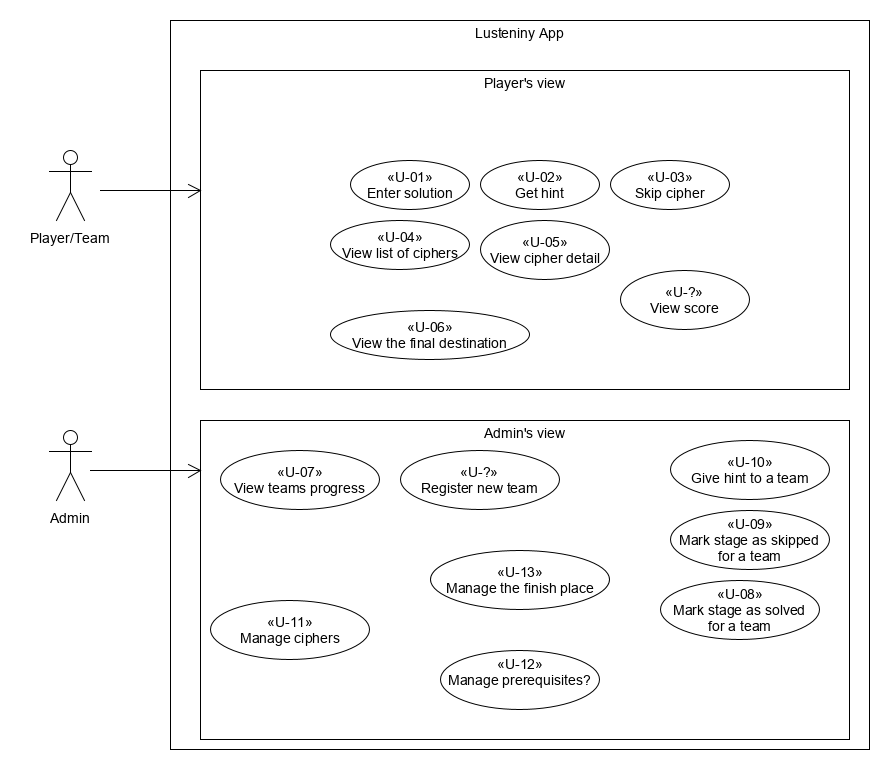
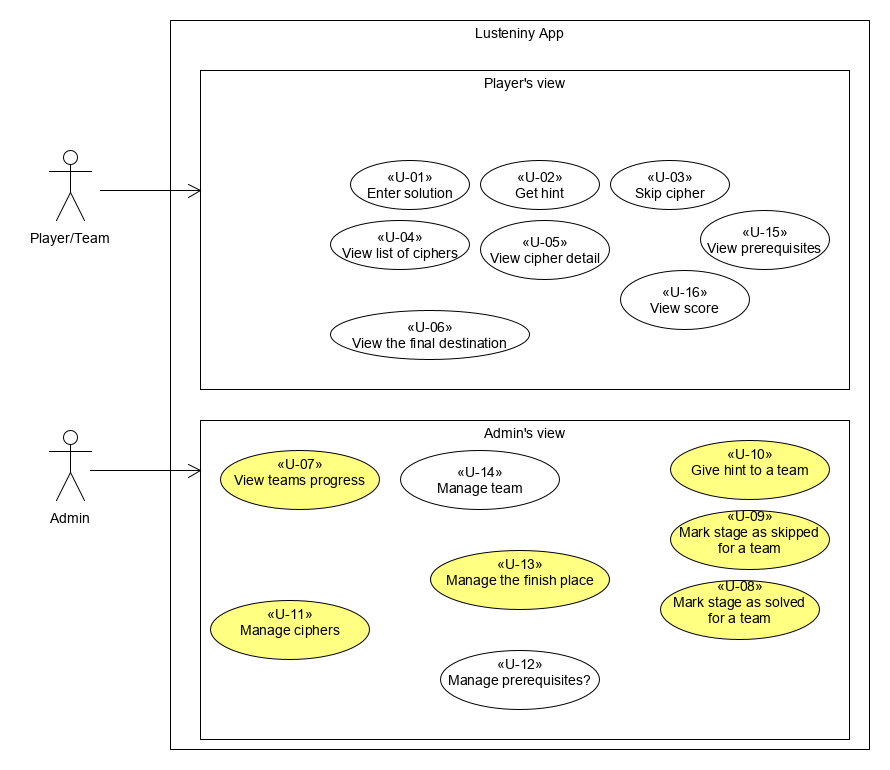
Updated admin use cases

diff --git a/U-11_Manage_ciphers.md b/U-11_Manage_ciphers.md
@@ -7,19 +7,20 @@
 
 ## Main Scenario
 
-1. **Admin:** wants to create or edit a cipher
-2. **System:** asks admin for followint cipher information:
+1. **Admin:** wants to create or edit or delete a cipher
+2. **System:** asks admin for following cipher information:
    - Cipher title
-   - Cipher text/image
-   - Solution
-   - Hint
-   - Sorting order
-   - Place position
+   - Codeword
+   - Hint(s)
+   - Stage number
+   - Place position (lat/lng)
+   - Place description
+   - Bonus information (optional)
 
 3. **Admin:** fills-in the data and submits
 4. **System:** saves the cipher information into the system
 
 ## Extension
-3. Submit:
+2. If action is delete, cipher is removed from the system
+4. Submit:
    1. If required fields are missing system shows an error
-

diff --git a/U-14_Manage_teams.md b/U-14_Manage_teams.md
@@ -1,4 +1,4 @@
-# U-13: Manage the finish place
+# U-14: Manage teams
 **Actor:** Admin
 
 **Preconditions:** -
@@ -7,12 +7,11 @@
 
 ## Main Scenario
 
-1. **Admin:** wants to edit the finish place
+1. **Admin:** wants to add edit or remove team
 2. **System:** lets admin to input following data:
-   - Title
-   - Description
-   - GPS coordinates
-   - Time when place should be available to players
+   - Team name
+   - Number of members (optional)
+   - PIN (can be generated by the system)
 
 3. **Admin**: fills-in the data and submits
 4. **System**: Saves the information into the system
@@ -20,4 +19,3 @@
 ## Extension
 3. Submit:
    1. If some of the fields are missing, system shows an error
-   2. If time is in the past, system shows an error

diff --git a/U-09_Mark_stage_as_skipped_for_a_team.md b/U-09_Mark_stage_as_skipped_for_a_team.md
@@ -1,0 +1,19 @@
+# U-09: Mark stage as skipped for a team
+**Actor:** Admin
+
+**Preconditions:**
+- Previous ciphers must be finished or skipped (except first one)
+
+**Postconditions:**
+- Team score is updated
+- Next stage is unlocked and team can view it
+
+## Main Scenario
+
+1. Admin: wants to mark cipher as skipped
+2. System: asks for a team pin
+3. Admin: enters the pin and confirms the action
+4. System: marks the cipher as skipped
+
+## Extension
+N/A

diff --git a/U-08_Mark_stage_as_solved_for_a_team.md b/U-08_Mark_stage_as_solved_for_a_team.md
@@ -1,0 +1,19 @@
+# U-08: Mark stage as solved for a team
+**Actor:** Admin
+
+**Preconditions:**
+- Previous ciphers must be finished or skipped (except first one)
+
+**Postconditions:**
+- Team score is updated
+- Next stage is unlocked and team can view it
+
+## Main Scenario
+
+1. Admin: wants to mark cipher as solved
+2. System: asks for a team pin
+3. Admin: enters the pin and confirms the action
+4. System: marks the cipher as solved
+
+## Extension
+N/A

diff --git a/U-10_Give_hint_to_a_team.md b/U-10_Give_hint_to_a_team.md
@@ -1,0 +1,18 @@
+# U-10: Give hint to a team
+**Actor:** Admin
+
+**Preconditions:**
+- Previous ciphers must be finished or skipped (except first one)
+
+**Postconditions:**
+- Team score is updated
+
+## Main Scenario
+
+1. Admin: wants to give hint to a team
+2. System: asks for a team pin
+3. Admin: enters the pin and confirms the action
+4. System: unlocks next hint to a team
+
+## Extension
+N/A

diff --git a/U-07_View_teams_progress.md b/U-07_View_teams_progress.md
@@ -12,8 +12,7 @@
 2. **System:** renders following information in a table:
    - Team name
    - Team score
-   - Number of solved ciphers
-   - Total number of ciphers
+   - Status of each cypher for each team(skipped, solved, pending) 
     
 ## Extension
 N/A

diff --git a/U-12_Mange_prerequisites.md b/U-12_Mange_prerequisites.md
@@ -1,0 +1,13 @@
+# U-12: Manage prerequisites
+**Actor:** Admin
+
+**Preconditions:** -
+
+**Postconditions:** -
+
+## Main Scenario
+
+1. **Admin:** wants to add or remove coding table
+2. **System:** 
+
+## Extension
